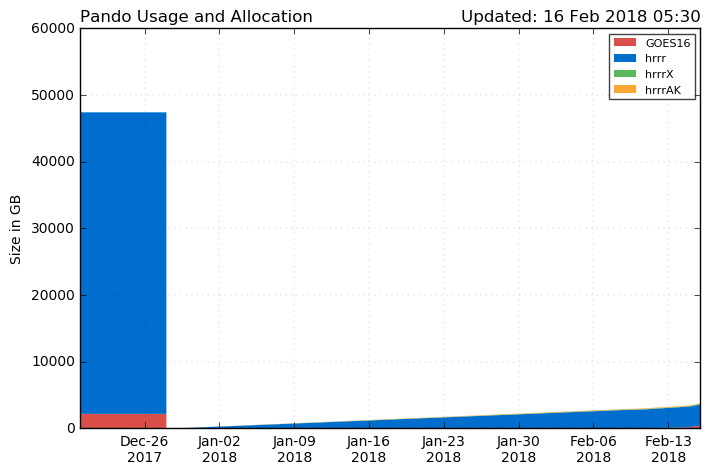
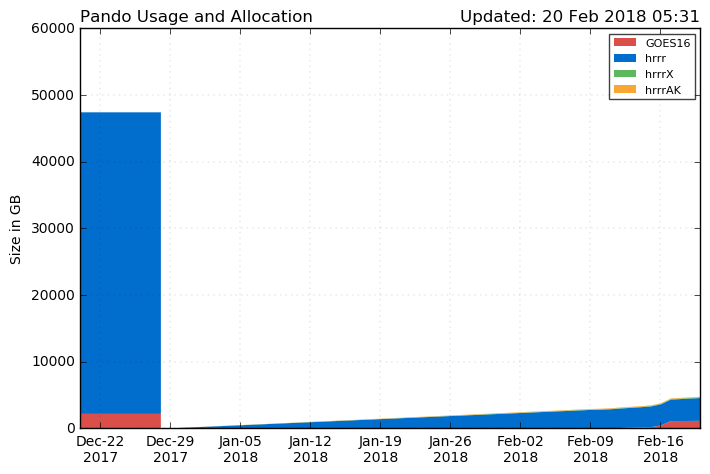
updates

Changed region(s): [[0.093, 0.2363, 0.8676, 0.9747], [0.5268, 0.827, 0.9915, 0.9747], [0.6507, 0.0, 0.9915, 0.0591]]

diff --git a/hrrr_fires.html b/hrrr_fires.html
@@ -60,7 +60,7 @@ This page is created dynamically in the scirpt /oper/HRRR_fires/manager.py
         <li><a href="http://home.chpc.utah.edu/~u0553130/Brian_Blaylock/cgi-bin/hrrr_fires_alert.cgi?fire=ALTAR">Past Wind Events</a></li>
         </ul>
         </div>
-        </div></td><td>Arizona</td> <td>3,344</td><td>08-Feb-18</td></tr><tr><td>
+        </div></td><td>Not Reported</td> <td>3,344</td><td>Not Reported</td></tr><tr><td>
         <div class="btn-group" role="group" aria-label="..." style="padding-bottom:3px">
         <a href="http://home.chpc.utah.edu/~u0553130/oper/HRRR_fires/EAST_BUFORD/photo_viewer_fire.php" type="button" class="btn btn-warning" style="width:175px"><b><i class="fab fa-gripfire"></i> EAST BUFORD</b></a>  <div class="btn-group" role="group">
         <button type="button" class="btn btn-warning dropdown-toggle" data-toggle="dropdown" aria-haspopup="true" aria-expanded="false">
@@ -86,7 +86,7 @@ This page is created dynamically in the scirpt /oper/HRRR_fires/manager.py
         <li><a href="http://home.chpc.utah.edu/~u0553130/Brian_Blaylock/cgi-bin/hrrr_fires_alert.cgi?fire=GATE 13">Past Wind Events</a></li>
         </ul>
         </div>
-        </div></td><td>Arizona</td> <td>1,290</td><td>10-Feb-18</td></tr><tr><td>
+        </div></td><td>Not Reported</td> <td>1,290</td><td>Not Reported</td></tr><tr><td>
         <div class="btn-group" role="group" aria-label="..." style="padding-bottom:3px">
         <a href="http://home.chpc.utah.edu/~u0553130/oper/HRRR_fires/KNOB_HILL/photo_viewer_fire.php" type="button" class="btn btn-warning" style="width:175px"><b><i class="fab fa-gripfire"></i> KNOB HILL</b></a>  <div class="btn-group" role="group">
         <button type="button" class="btn btn-warning dropdown-toggle" data-toggle="dropdown" aria-haspopup="true" aria-expanded="false">
@@ -99,7 +99,7 @@ This page is created dynamically in the scirpt /oper/HRRR_fires/manager.py
         <li><a href="http://home.chpc.utah.edu/~u0553130/Brian_Blaylock/cgi-bin/hrrr_fires_alert.cgi?fire=KNOB HILL">Past Wind Events</a></li>
         </ul>
         </div>
-        </div></td><td>Arizona</td> <td>2,896</td><td>10-Feb-18</td></tr><tr><td>
+        </div></td><td>Not Reported</td> <td>2,896</td><td>Not Reported</td></tr><tr><td>
         <div class="btn-group" role="group" aria-label="..." style="padding-bottom:3px">
         <a href="http://home.chpc.utah.edu/~u0553130/oper/HRRR_fires/MIDNIGHT/photo_viewer_fire.php" type="button" class="btn btn-warning" style="width:175px"><b><i class="fab fa-gripfire"></i> MIDNIGHT</b></a>  <div class="btn-group" role="group">
         <button type="button" class="btn btn-warning dropdown-toggle" data-toggle="dropdown" aria-haspopup="true" aria-expanded="false">
@@ -156,7 +156,7 @@ This page is created dynamically in the scirpt /oper/HRRR_fires/manager.py
     <p><a class='btn btn-default' style='width:100%' href="https://rmgsc.cr.usgs.gov/outgoing/GeoMAC/ActiveFirePerimeters.kml" target="_blank">Active Fire KMZ USGS <i class="fa fa-external-link-alt"></i></a>
     <p><a class='btn btn-default' style='width:100%' href="https://earthdata.nasa.gov/earth-observation-data/near-real-time/firms/active-fire-data" target="_blank">Active Fire KMZ EarthData <i class="fa fa-external-link-alt"></i></a>
     <p><a class='btn btn-success' style='width:100%' href="https://rmgsc.cr.usgs.gov/outgoing/GeoMAC/current_year_fire_data/current_year_all_states/" target="_blank">Active Fire Perimeter ShapeFile <i class="fa fa-external-link-alt"></i></a>
-    <p><a class='btn btn-success' style='width:100%' href="https://fsapps.nwcg.gov/afm/data/lg_fire/lg_fire_info_2018-02-16.txt" target="_blank">Active Fire Text <i class="fa fa-external-link-alt"></i></a>
+    <p><a class='btn btn-success' style='width:100%' href="https://fsapps.nwcg.gov/afm/data/lg_fire/lg_fire_info_2018-02-20.txt" target="_blank">Active Fire Text <i class="fa fa-external-link-alt"></i></a>
     </div>
 </center>
 </div>

diff --git a/Pando_archive/index.html b/Pando_archive/index.html
@@ -37,12 +37,12 @@
         </div>
   <br>
   <script src='./js/pando_status.js'></script>
-    <center><font size=12> 3.8 TB out of 60 TB</font>
+    <center><font size=12> 4.8 TB out of 60 TB</font>
     <div class="progress" style="max-width:700px;height:35px">
-            <div class="progress-bar progress-bar-danger" role="progressbar" style="width:1%">
+            <div class="progress-bar progress-bar-danger" role="progressbar" style="width:2%">
               <font size=4></font>
             </div>
-            <div class="progress-bar progress-bar-primary" role="progressbar" style="width:5%">
+            <div class="progress-bar progress-bar-primary" role="progressbar" style="width:6%">
               <font size=4></font>
             </div>
             <div class="progress-bar progress-bar-success" role="progressbar" style="width:0%">
@@ -64,9 +64,9 @@
         <th style='text-align:center'>Estimated Full Date</th>
       </tr>
       <tr>
-        <td>318.50 GB</td>
-        <td>188</td>
-        <td>23 August 2018</td>
+        <td>85.38 GB</td>
+        <td>702</td>
+        <td>23 January 2020</td>
       </tr>
     </table>
     <table class="table table-bordered" style='text-align:center;max-width:700px'>
@@ -80,14 +80,14 @@
       <tr>
         <th>sfc</th>
         <td>--</td>
-        <td>22.83</td>
-        <td>0.85</td>
+        <td>23.85</td>
+        <td>1.25</td>
         <td>0.27</td>
       </tr>
       <tr>
         <th>prs</th>
         <td>--</td>
-        <td>3.75</td>
+        <td>3.79</td>
         <td>0.00</td>
         <td>0.00</td>
       </tr>
@@ -100,9 +100,9 @@
       </tr>
       <tr>
         <th>Total</th>
-        <th>251.4 GB</th>
-        <th>26.58 GB</th>
-        <th>0.85 GB</th>
+        <th>15.3 GB</th>
+        <th>27.65 GB</th>
+        <th>1.25 GB</th>
         <th>0.27 GB</th>
       </tr>
     </table>

diff --git a/hrrr_script_tips.html b/hrrr_script_tips.html
@@ -334,7 +334,7 @@
                 <div class="panel panel-default">
                 <div class="panel-heading">How the .idx files are created</div>
                 <div class="panel-body" style="font-family:monospace">
-                wgrib2 hrrr.t09z.wrfsfcf17.grib2 -t -var -lev -ftime
+                wgrib2 hrrr.t09z.wrfsfcf17.grib2 -t -var -lev -ftime > hrrr.t09z.wrfsfcf17.grib2.idx
                 </div>
                 </div>
             </div>            
